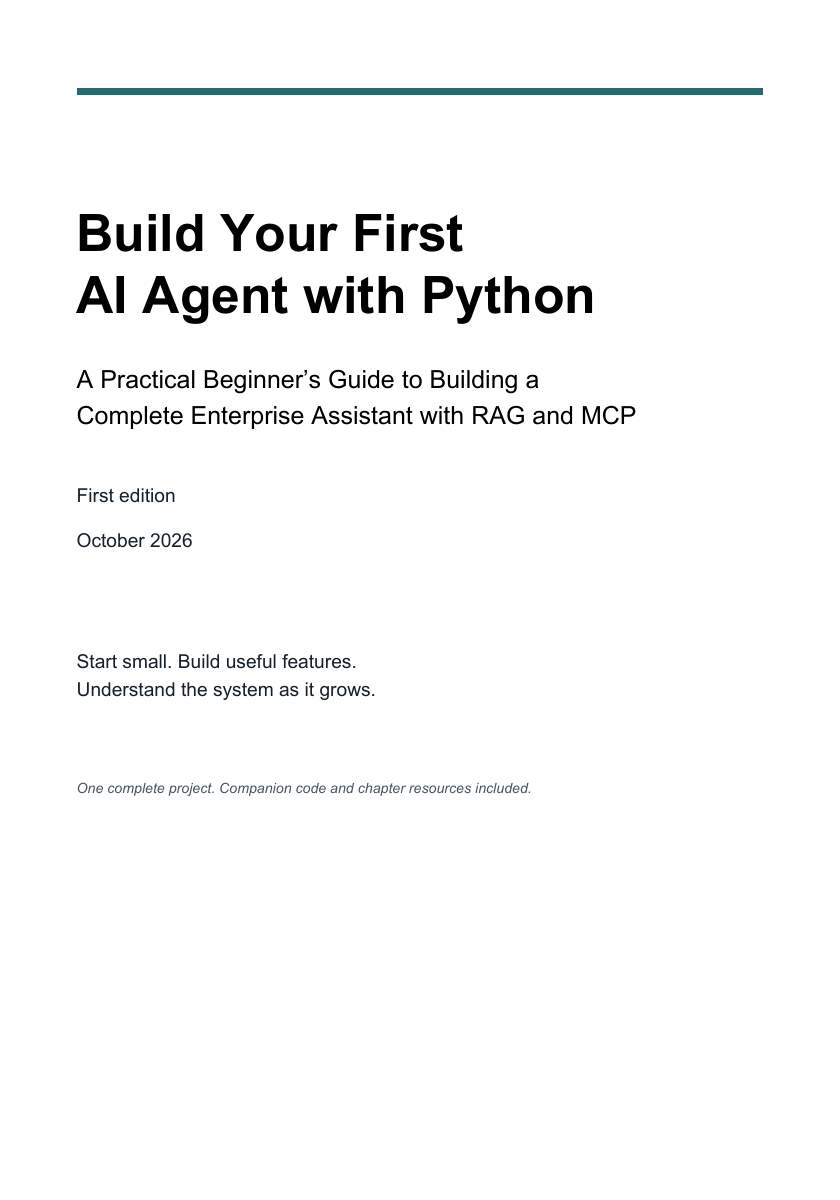
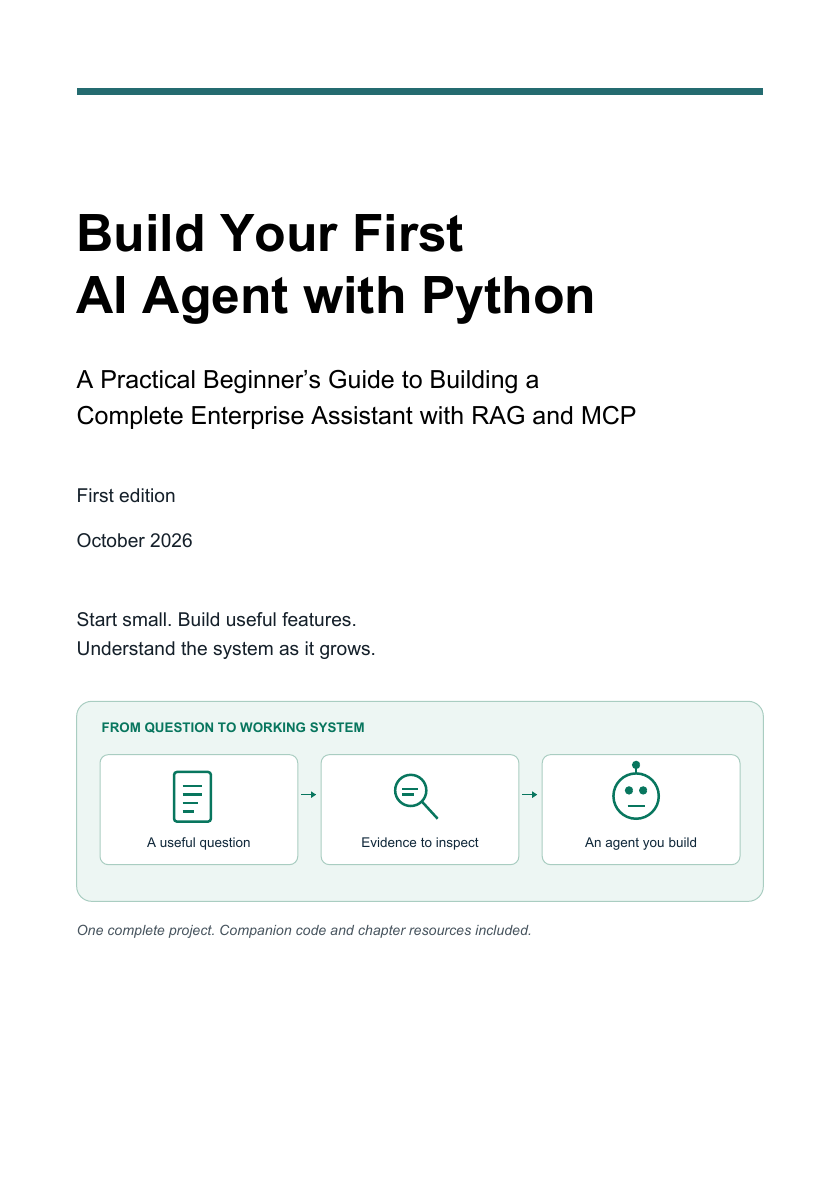
Synchronize book cover, resource links and companion downloads

diff --git a/index.html b/index.html
@@ -15,9 +15,10 @@
     <div class="learning-path" aria-label="The learning path"><span>01–04<br><strong>Learn the foundations</strong></span><span>05–08<br><strong>Build the application</strong></span><span>09–12<br><strong>Connect and operate</strong></span></div>
     <p class="story-close">Use this site as your workbench: download the companion, find your chapter, and keep an untouched reference copy beside your own build.</p>
     <a class="text-link" href="#start">Begin with the project files <span aria-hidden="true">→</span></a>
+    <p class="small" style="margin-top:18px">Prefer to explore the files online? <a href="https://github.com/84-systems-lab/enterprise-ai-agent-beginner">Browse the companion source on GitHub</a>. To describe a reproducible problem, use the repository's <a href="https://github.com/84-systems-lab/enterprise-ai-agent-beginner/issues">Issues page</a> and include the chapter and a redacted error.</p>
   </article>
 </section>
-<section class="wrap section" id="start"><div class="section-heading"><p class="eyebrow">01 / START HERE</p><h2>Everything you need.<br>One place to begin.</h2><p>These files accompany <strong>Build Your First AI Agent with Python</strong>: <em>A Practical Beginner’s Guide to Building a Complete Enterprise Assistant with RAG and MCP.</em> Follow the book in order; each chapter builds on the last.</p></div><div class="start-grid"><article class="download-panel"><p class="eyebrow light">THE COMPLETE COMPANION</p><h3>Your project.<br>Ready to explore.</h3><p>Source code, learning exercises, safe sample data, configuration templates and dependency lock files. Download this first.</p><a class="button primary" href="downloads/enterprise-ai-agent-companion.zip" download>Download complete source <span aria-hidden="true">↓</span></a><p class="small">ZIP · 837 KiB · edition 3 resources</p><details><summary>Verify your download</summary><p class="small">SHA-256 identifies this exact file. Compare it with the result from Get-FileHash in PowerShell:</p><code>Get-FileHash .\enterprise-ai-agent-companion.zip -Algorithm SHA256</code><p class="hash">5c36db1e1a01c75fc235f79cb24c502f67cc40a0acf78842934bbf1cf4dc3f9b</p><a href="downloads/CHECKSUMS.sha256" download>Download all checksums</a></details></article><ol class="steps"><li><span>01</span><div><h3>Download and extract</h3><p>Save the complete ZIP, then choose <strong>Extract All</strong> in Windows File Explorer. Open the extracted folder before running commands.</p></div></li><li><span>02</span><div><h3>Open README.md</h3><p>Start with the included README. The learning folder contains the early exercises; app, frontend and infra contain the integrated system.</p></div></li><li><span>03</span><div><h3>Build from Chapter 1</h3><p>The book explains the tools as you need them. Begin with the first Python program, inspect its result and complete each checkpoint before moving on.</p></div></li></ol></div></section>
+<section class="wrap section" id="start"><div class="section-heading"><p class="eyebrow">01 / START HERE</p><h2>Everything you need.<br>One place to begin.</h2><p>These files accompany <strong>Build Your First AI Agent with Python</strong>: <em>A Practical Beginner’s Guide to Building a Complete Enterprise Assistant with RAG and MCP.</em> Follow the book in order; each chapter builds on the last.</p></div><div class="start-grid"><article class="download-panel"><p class="eyebrow light">THE COMPLETE COMPANION</p><h3>Your project.<br>Ready to explore.</h3><p>Source code, learning exercises, safe sample data, configuration templates and dependency lock files. Download this first.</p><a class="button primary" href="downloads/enterprise-ai-agent-companion.zip" download>Download complete source <span aria-hidden="true">↓</span></a><p class="small">ZIP · 837 KiB · edition 3 resources</p><details><summary>Verify your download</summary><p class="small">SHA-256 identifies this exact file. Compare it with the result from Get-FileHash in PowerShell:</p><code>Get-FileHash .\enterprise-ai-agent-companion.zip -Algorithm SHA256</code><p class="hash">23d91ece269a2211f64a5bdcbe81b1530bf021bb3680f6a86f04e6e86892b961</p><a href="downloads/CHECKSUMS.sha256" download>Download all checksums</a></details></article><ol class="steps"><li><span>01</span><div><h3>Download and extract</h3><p>Save the complete ZIP, then choose <strong>Extract All</strong> in Windows File Explorer. Open the extracted folder before running commands.</p></div></li><li><span>02</span><div><h3>Open README.md</h3><p>Start with the included README. The learning folder contains the early exercises; app, frontend and infra contain the integrated system.</p></div></li><li><span>03</span><div><h3>Build from Chapter 1</h3><p>The book explains the tools as you need them. Begin with the first Python program, inspect its result and complete each checkpoint before moving on.</p></div></li></ol></div></section>
 <section class="chapter-section" id="chapters"><div class="wrap section"><div class="section-heading"><p class="eyebrow">02 / YOUR BUILD JOURNEY</p><h2>Small wins.<br>A bigger system.</h2><p>Use these packs alongside the complete companion. Each pack collects chapter resources; it is not a standalone application or a Git checkpoint.</p></div><div class="chapters"><article class="chapter"><span class="chapter-number">01</span><div><p class="eyebrow">FOUNDATIONS</p><h3>A Question and Your First Program</h3><a href="downloads/chapter-01-resources.zip" download>Chapter 1 resources <span aria-hidden="true">↗</span></a></div></article>
 <article class="chapter"><span class="chapter-number">02</span><div><p class="eyebrow">FOUNDATIONS</p><h3>Teach a Small Program to Read</h3><a href="downloads/chapter-02-resources.zip" download>Chapter 2 resources <span aria-hidden="true">↗</span></a></div></article>
 <article class="chapter"><span class="chapter-number">03</span><div><p class="eyebrow">FOUNDATIONS</p><h3>From Search Results to Supported Answers</h3><a href="downloads/chapter-03-resources.zip" download>Chapter 3 resources <span aria-hidden="true">↗</span></a></div></article>
